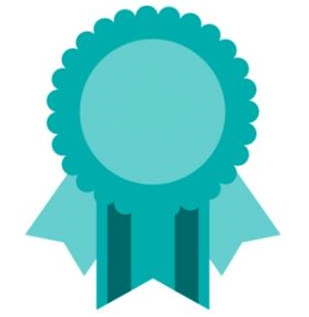
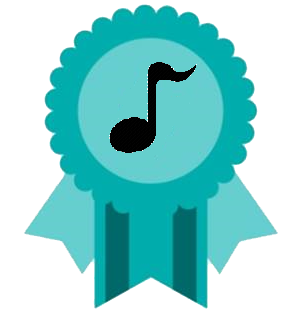
Removed background from images and changed level up criteria for badges Story: 687

diff --git a/src/main/java/seng302/managers/BadgeManager.java b/src/main/java/seng302/managers/BadgeManager.java
@@ -138,7 +138,7 @@ public class BadgeManager {
         //initialise overall badges
         overallBadges.add(new Badge("Completist", null, "Unlock all tutors", tutorTotal, 0, 0, "completist"));
         overallBadges.add(new Badge("Tutor master", null, "100% in all tutors", tutorTotal, 0, 0, "gradHat"));
-        overallBadges.add(new Badge("Instrument master", null, "Use different instruments", musicianBadges, 0, 0, "gradHat"));
+        overallBadges.add(new Badge("Instrument master", null, "Use different instruments", musicianBadges, 0, 0, "saxophone-man"));
         overallBadges.add(new Badge("Creative", null, "Change your theme", null, 0, 0, "paint-brush"));
         overallBadges.add(new Badge("Speedster", null, "Force set the tempo", null, 0, 0, "speedster"));
         overallBadges.add(new Badge("TwinkleTwinkle", null, "Find hidden secret", null, 0, 0, "twinkle"));

diff --git a/src/main/java/seng302/data/Badge.java b/src/main/java/seng302/data/Badge.java
@@ -48,7 +48,7 @@ public class Badge {
             return;
         }
 
-        if(badgeProgress >= badgeLevels.get(currentBadgeType)){
+        while (badgeProgress >= badgeLevels.get(currentBadgeType)){
             currentBadgeType += 1;
             Image unlock = new Image(getClass().getResourceAsStream("/images/unlock.png"), 75, 75, true, true);
             List<String> badgeTypes = new ArrayList<>();
